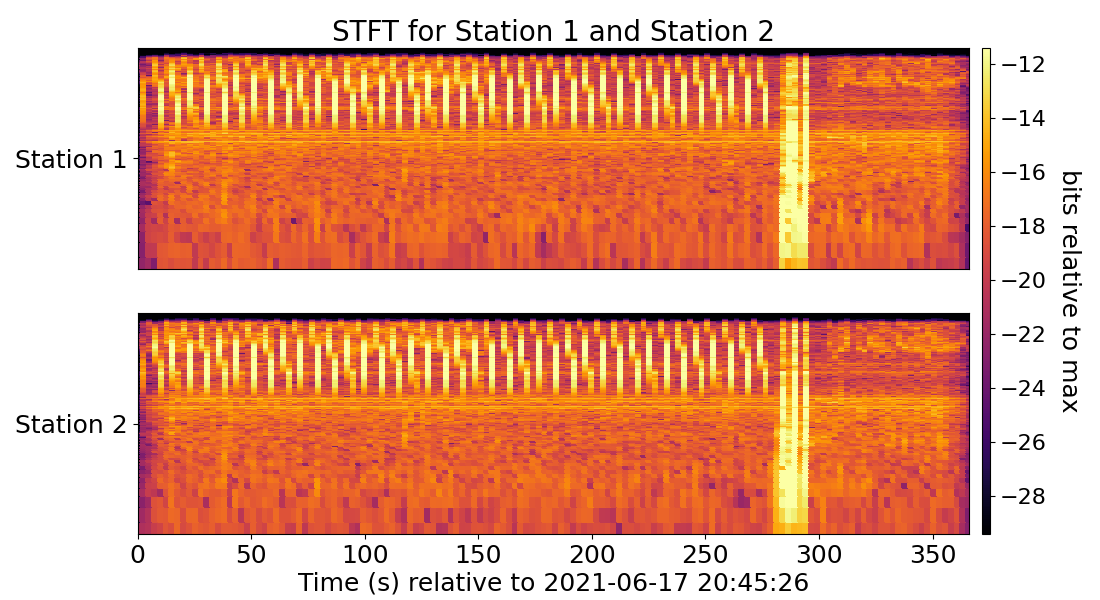
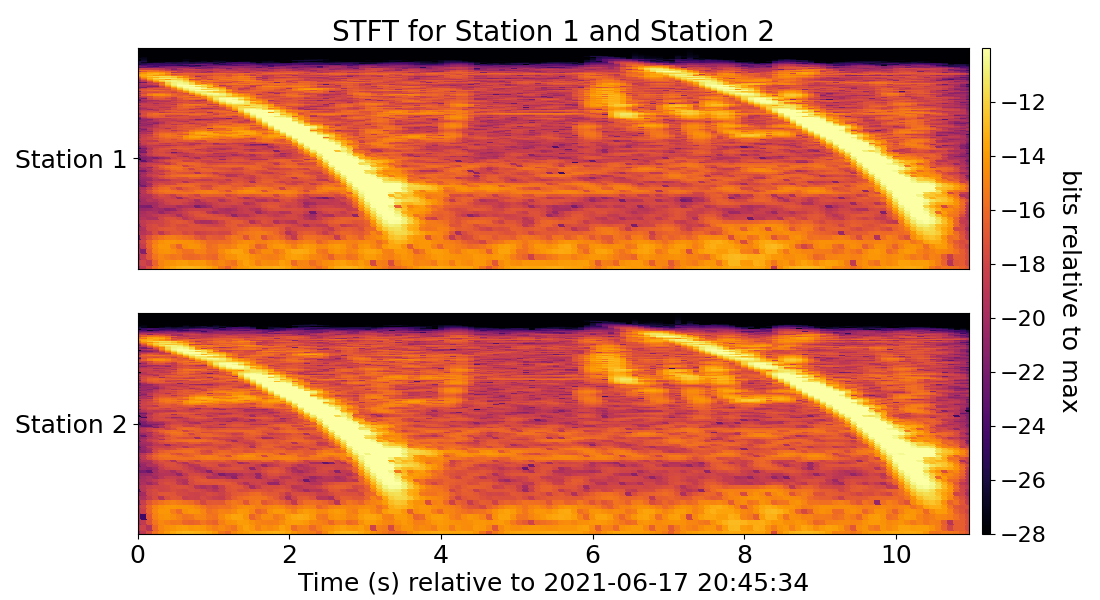
update sweep docmentation

diff --git a/docs/redpandas/img/make_figs.py b/docs/redpandas/img/make_figs.py
@@ -5,11 +5,12 @@ import redpandas.redpd_plot as rpd_plot
 import matplotlib.pyplot as plt
 
 # redpd_dw_to_parquet(input_dir='/Users/meritxell/Documents/api_m_pipeline_tests/20210617_Sweep_test_students',
-#                     sensor_labels=["audio", "barometer", "accelerometer", "gyroscope", "magnetometer"])
+#                     sensor_labels=["audio", "barometer", "accelerometer", "gyroscope", "magnetometer"],
+#                     start_epoch_s=1623962734, end_epoch_s=1623962730 + 15)
 
 
-INPUT_DIR = '/Users/meritxell/Documents/api_m_pipeline_tests/20210617_Sweep_test_students'
-df = pd.read_parquet(INPUT_DIR + "/rpd_files/Redvox_df.parquet")
+# INPUT_DIR = '/Users/meritxell/Documents/api_m_pipeline_tests/20210617_Sweep_test_students'
+df = pd.read_parquet('/Users/meritxell/Documents/api_m_pipeline_tests/20210617_Sweep_test_students' + "/rpd_files/Redvox_df.parquet")
 
 
 # sensor_column_label_list = ["audio_wf"]
@@ -75,6 +76,7 @@ rpd_plot.plot_mesh_pandas(df=df,
                           mesh_frequency_label="tfr_frequency_hz",
                           mesh_tfr_label="tfr_bits",
                           t0_sig_epoch_s=df["audio_epoch_s"][0][0],
-                          sig_id_label=["Station 1", "Station 2", "Station 3"],
+                          frequency_hz_ymin=20,
+                          sig_id_label=["Station 1", "Station 2"],
                           fig_title="STFT for Station 1 and Station 2")
 plt.show()

diff --git a/docs/redpandas/advance_use_redpandas.md b/docs/redpandas/advance_use_redpandas.md
@@ -276,12 +276,15 @@ Once the TFR has been calculated, ``tfr_bits`` can be plotted with the function 
 _Plotting TFR for audio signal from a [previous example](#plotting-signal-waveforms-for-all-stations-stored-in-the-dataframe):_
 ```python
 import redpandas.redpd_plot as rpd_plot
+import matplotlib.pyplot as plt
 
+df = df.drop(index=2)  # eliminate Station 3 because it does not have a complete record as we saw in the previous example
 rpd_plot.plot_mesh_pandas(df=df,
                           mesh_time_label="tfr_time_s",
                           mesh_frequency_label="tfr_frequency_hz",
                           mesh_tfr_label="tfr_bits",
                           t0_sig_epoch_s=df["audio_epoch_s"][0][0],
+                          frequency_hz_ymin=20,
                           sig_id_label=["Station 1", "Station 2"],
                           fig_title="STFT for Station 1 and Station 2")
 plt.show()

diff --git a/docs/redpandas/development.md b/docs/redpandas/development.md
@@ -19,11 +19,11 @@ Please feel free to submit issues on the GitHub [issue tracker](https://github.c
 
 #### Version History
 
-See [CHANGELOG.md](../CHANGELOG.md).
+See [CHANGELOG.md](https://github.com/RedVoxInc/redpandas/blob/master/docs/CHANGELOG.md).
 
 #### License
 
 [The Apache License](https://github.com/RedVoxInc/redpandas/blob/master/LICENSE)
 
 
-Return to main _[Table of Contents](https://github.com/RedVoxInc/redpandas)_.
+Return to _[main page](https://github.com/RedVoxInc/redpandas)_.
